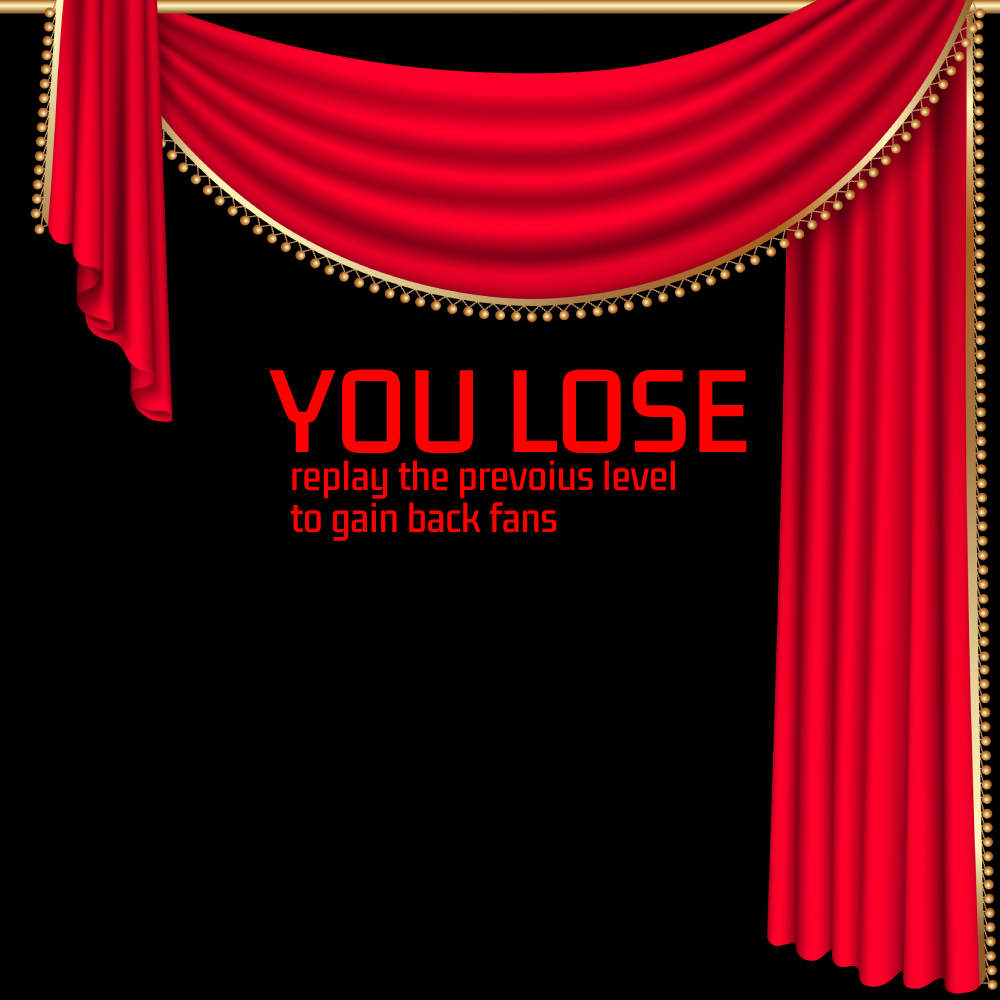
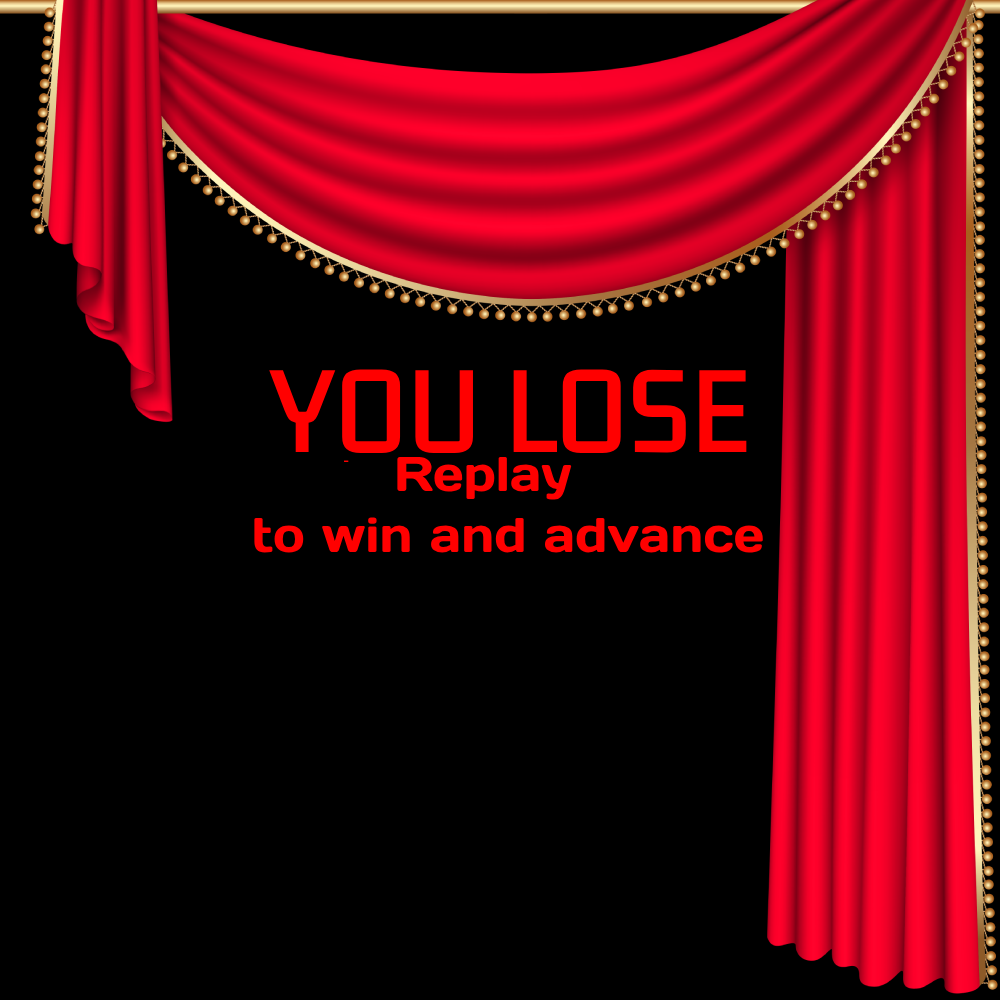
Co-authored-by: noel429 <noel429@users.noreply.github.com>

Changed region(s): [[0.248, 0.434, 0.775, 0.558]]

diff --git a/interfaces/credit.py b/interfaces/credit.py
@@ -6,34 +6,31 @@ import objects.buttons
 from pygame import mixer
 mixer.init()
 def output(window):
-    bg= objects.image.still(0,0,1000,1000,'images/lose.png')
-    btn_return = objects.buttons.no_background(300,600,"Arial",35,(235, 64, 52),(98, 52, 235),"Return to Map")
-    btn_exit = objects.buttons.no_background(300,750,"Arial",35,(235, 64, 52),(98, 52, 235),"Click me to Exit")
+    bg= objects.image.still(0,0,1000,1000,'images/credit.png')
+    btn_return = objects.buttons.no_background(700,850,"Arial",35,(235, 64, 52),(98, 52, 235),"Click to Return")
     
-
+    
+ 
+ 
     def display():
         window.fill((0,0,0)) #White background
         bg.draw(window)
         btn_return.draw(window)
-        btn_exit.draw(window)   
-       
+         
+    
     run = True
-    while run: 
+    while run:    
         
         display()
         for event in pygame.event.get():
             if btn_return.update(pygame.mouse.get_pos(),event):
-                manager.screen = 2
+                manager.screen = 0
                 run = False
-            if btn_exit.update(pygame.mouse.get_pos(),event):
-                pygame.quit() 
-                sys.exit()
-    
         # if user  QUIT then the screen will close
             if event.type == pygame.QUIT:
                 pygame.quit()
                 sys.exit()
-  
-       
+
+    
         pygame.display.flip() #update the display
         manager.fpsClock.tick(manager.fps) #speed of redraw

diff --git a/interfaces/options.py b/interfaces/options.py
@@ -8,15 +8,15 @@ import objects.buttons
 
 def output(window):
     bg= objects.image.still(0,0,1000,1000,'images/options_screen.png')
-    btn_exit = objects.buttons.no_background(650,500,"Arial",40,(235, 64, 52),(98, 52, 235),"Click to Exit")
     btn_return = objects.buttons.no_background(650,350,"Arial",40,(235, 64, 52),(98, 52, 235),"Click to Return")
     btn_story =  objects.buttons.no_background(650,300,"Arial",40,(235, 64, 52),(98, 52, 235),"Story Plot")
+    btn_credit = objects.buttons.no_background(650,250,"Arial",40,(235, 64, 52),(98, 52, 235),"Credits")
     def display():
         window.fill((0,0,0)) #White background
-        bg.draw(window)
-        btn_exit.draw(window)   
+        bg.draw(window) 
         btn_return.draw(window)
         btn_story.draw(window)
+        btn_credit.draw(window)
     run = True
     while run: 
         display()
@@ -27,10 +27,9 @@ def output(window):
             if btn_story.update(pygame.mouse.get_pos(),event):
                 manager.screen = 9
                 run = False
-            if btn_exit.update(pygame.mouse.get_pos(),event):
-                pygame.quit() 
-                sys.exit()
-    
+            if  btn_credit.update(pygame.mouse.get_pos(),event):
+                manager.screen = 16
+                run = False
         # if user  QUIT then the screen will close
             if event.type == pygame.QUIT:
                 pygame.quit()

diff --git a/interfaces/story.py b/interfaces/story.py
@@ -8,13 +8,11 @@ import objects.buttons
 
 def output(window):
     bg= objects.image.still(0,0,1000,1000,'images/story.png')
-    btn_exit = objects.buttons.no_background(650,800,"Arial",40,(235, 64, 52),(98, 52, 235),"Click to Exit")
     btn_return = objects.buttons.no_background(200,800,"Arial",40,(235, 64, 52),(98, 52, 235),"Click to Return")
 
     def display():
         window.fill((0,0,0)) #White background
-        bg.draw(window)
-        btn_exit.draw(window)   
+        bg.draw(window)   
         btn_return.draw(window)
         
     run = True
@@ -24,9 +22,6 @@ def output(window):
             if btn_return.update(pygame.mouse.get_pos(),event):
                 manager.screen = 0
                 run = False
-            if btn_exit.update(pygame.mouse.get_pos(),event):
-                pygame.quit() 
-                sys.exit()
     
         # if user  QUIT then the screen will close
             if event.type == pygame.QUIT:

diff --git a/interfaces/password.py b/interfaces/password.py
@@ -42,9 +42,12 @@ def output(window):
             if btn_create.update(pygame.mouse.get_pos(),event):
                 objects.database.insert_db(db_connection, "Password", ["username","Password","level"],[txt_username.text,txt_password.text,0])
                 print("Data inserted successfully")
+                data = objects.database.select_db(db_connection, "Password", [f"username='{txt_username.text}'", f"password='{txt_password.text}'"]).fetchall()
                 manager.screen = 2
                 manager.username = txt_username.text
                 manager.password = txt_password.text
+                manager.level = data[0][3]
+                manager.id = data[0][0] 
                 run = False
             if btn_login.update(pygame.mouse.get_pos(),event):
                 data = objects.database.select_db(db_connection, "Password", [f"username='{txt_username.text}'", f"password='{txt_password.text}'"]).fetchall()

diff --git a/interfaces/level_3.py b/interfaces/level_3.py
@@ -102,9 +102,8 @@ def output(window):
         if stage.live <= 0:
             manager.screen = 5
             run = False
-            db_connection = objects.database.create_connection("database.db")
-            objects.database.update_db(db_connection,"Password",["level=3"],f"id={manager.id}")
-            
+            manager.level = 3
+            objects.database.update_db(db_connection,"Password",[f"level={manager.level}"], f"id={manager.id}")
 
         if enemy_timer <= 0:
             enemy_notes.add(objects.player.enemy_shooter(drums.rect.x,drums.rect.y,50,50, 13,'images/note.png'))

diff --git a/interfaces/level_1.py b/interfaces/level_1.py
@@ -56,8 +56,8 @@ def output(window):
         if stage.live <= 0:
             manager.screen = 5
             run = False
-            db_connection = objects.database.create_connection("database.db")
-            objects.database.update_db(db_connection,"Password",["level=1"],f"id={manager.id}")
+            manager.level = 1
+            objects.database.update_db(db_connection,"Password",[f"level={manager.level}"], f"id={manager.id}")
 
         if enemy_timer <= 0:
             enemy_notes.add(objects.player.enemy_shooter(drums.rect.x,drums.rect.y,50,50, 10,'images/note.png'))

diff --git a/interfaces/boss.py b/interfaces/boss.py
@@ -128,7 +128,8 @@ def output(window):
             manager.screen = 5
             run = False
             db_connection = objects.database.create_connection("database.db")
-            objects.database.update_db(db_connection,"Password",["level=4"],f"id={manager.id}")
+            manager.level = 4
+            objects.database.update_db(db_connection,"Password",[f"username='{manager.username}'", f"password='{manager.password}'"],f"level={manager.level}")
             
 
         if enemy_timer <= 0:

diff --git a/interfaces/level_2.py b/interfaces/level_2.py
@@ -81,8 +81,8 @@ def output(window):
         if stage.live <= 0:
             manager.screen = 5
             run = False
-            db_connection = objects.database.create_connection("database.db")
-            objects.database.update_db(db_connection,"Password",["level=2"],f"id={manager.id}")
+            manager.level = 2
+            objects.database.update_db(db_connection,"Password",[f"level={manager.level}"], f"id={manager.id}")
             
 
         if enemy_timer <= 0:

diff --git a/main.py b/main.py
@@ -21,6 +21,7 @@ import interfaces.c2
 import interfaces.c3
 import interfaces.c4
 import interfaces.gc
+import interfaces.credit
 pygame.init()
 
 
@@ -61,4 +62,5 @@ while True:
         interfaces.c4.output(window)
     if manager.screen == 15:
         interfaces.gc.output(window)
-
+    if manager.screen == 16:
+        interfaces.credit.output(window)
